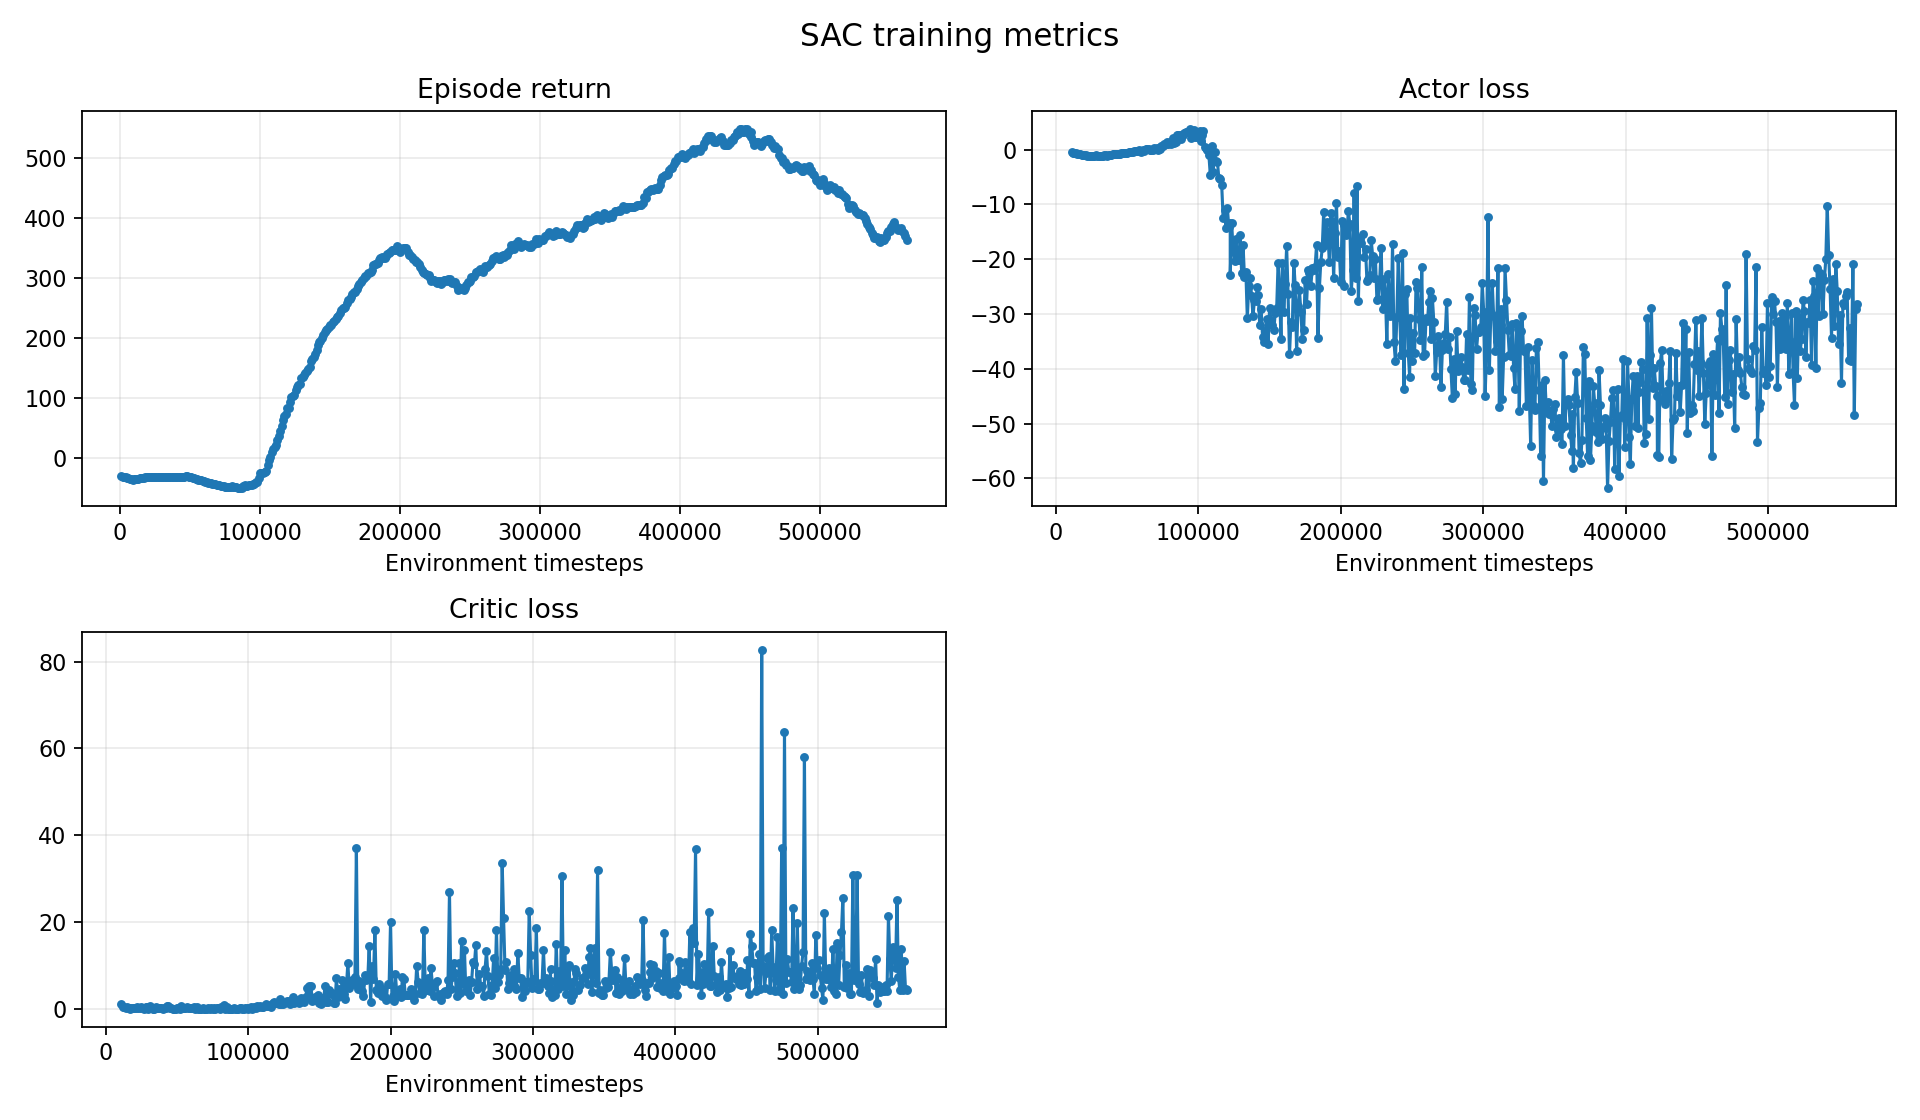
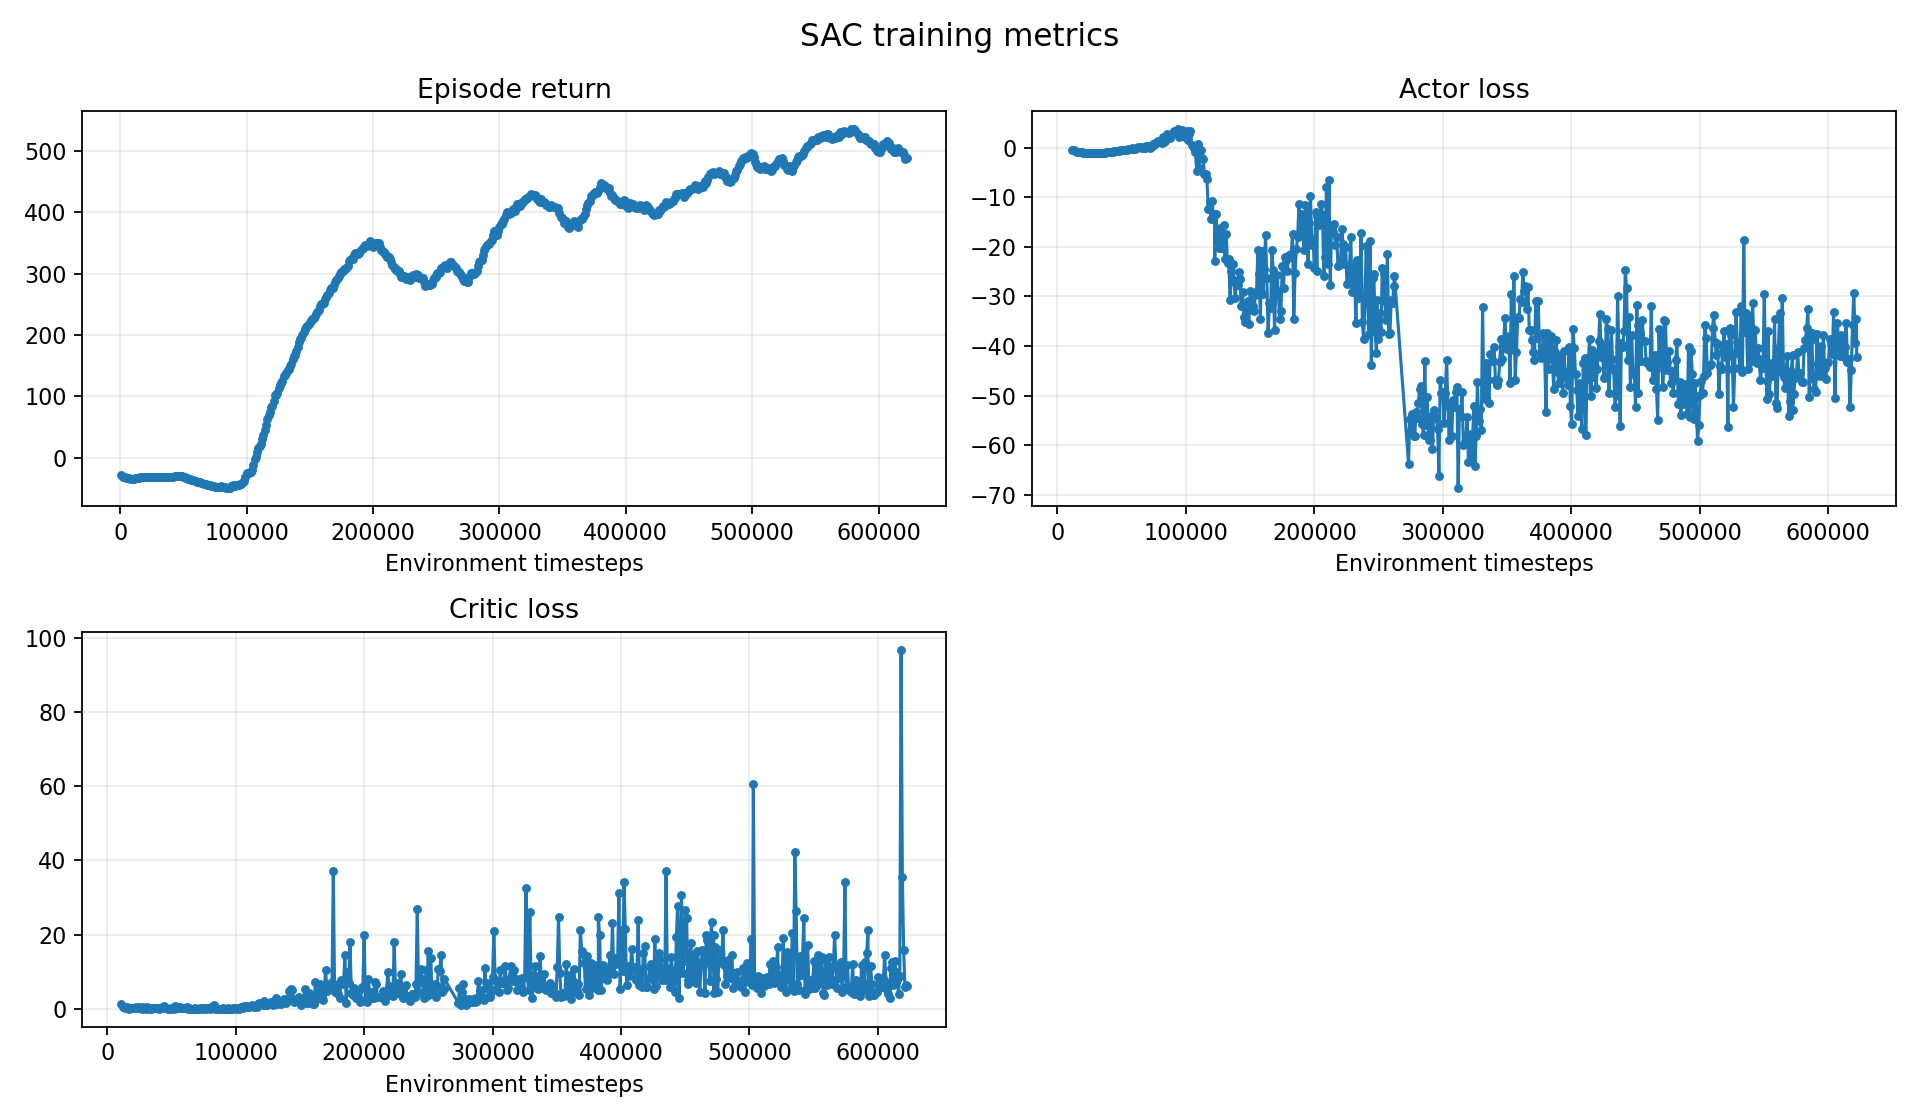
updated SAC with more runs

diff --git a/README.md b/README.md
@@ -7,6 +7,7 @@ baseline, and a DrQ-SAC variant with task-specific reward shaping.
 ## Results
 
 The strongest policies are shown below on the shared demo seed `48`.
+The bottom HUD shows Gymnasium diagnostics: blue bars are wheel ABS sensors, green is steering position, red is angular velocity, and white is vehicle speed.
 
 <table>
   <tr>
@@ -21,7 +22,7 @@ The strongest policies are shown below on the shared demo seed `48`.
     </td>
     <td>
       <img src="docs/assets/sac-demo.gif" alt="SAC policy" width="280">
-      <br><strong>516.5 ± 262.5 holdout return</strong>
+      <br><strong>518.0 ± 165.2 holdout return</strong>
     </td>
     <td>
       <img src="docs/assets/drq-sac-demo.gif" alt="DrQ-SAC policy" width="280">
@@ -31,17 +32,17 @@ The strongest policies are shown below on the shared demo seed `48`.
 </table>
 
 The table reports deterministic evaluation on 50 fresh seeds (`100–149`),
-separate from the five seeds used for checkpoint selection. 
+separate from the ten seeds used for checkpoint selection.
 
 | Model | Training steps | Training time | Holdout return | Lap completion |
 | --- | ---: | ---: | ---: | ---: |
 | PPO original | 1.20 M | 1h 52min | 847.8 ± 40.0 | 4/50 (8.0%) |
 | PPO stabilized continuation | 1.32 M | ~2h 26min | 855.7 ± 81.3 | 9/50 (18.0%) |
-| SAC | 262 k | 3h 50min | 516.5 ± 262.5 | 2/50 (4.0%) |
+| SAC | 382 k | ~5h 30min | 518.0 ± 165.2 | 0/50 (0.0%) |
 | DrQ-SAC | 420 k | 4h 47min | 806.1 ± 94.8 | 1/50 (2.0%) |
 
-The PPO, SAC, and DrQ-SAC checkpoints were selected using the original
-five-seed validation set; the holdout seeds were not used for selection.
+The PPO, SAC, and DrQ-SAC checkpoints were selected using separate validation
+sets; the 50-seed holdout was not used for selection.
 
 ## Approach
 
@@ -78,9 +79,9 @@ clipping, KL target, and reduced action standard deviation.
 
 ![PPO training metrics](docs/assets/ppo-training-metrics-combined.png)
 
-SAC has a very slow training curve with no significant progress in the first ~100k steps 
-but then improved steadily and reached its peak at ~450k steps. After that the agent 
-degraded. 
+The SAC plot combines the original training through 262k steps with the
+continuation through 552k steps. The retained 382.4k checkpoint is reported
+above.
 
 <img src="docs/assets/sac-training-metrics.png" alt="SAC training metrics" width="800">
 
@@ -108,7 +109,7 @@ with significant dispersion and struggled to improve significantly after that.
 
 - Environment: `CarRacing-v3`, continuous native three-action control.
 - Training seed: `42`.
-- Validation seeds: `43, 44, 45, 46, 47`.
+- Validation seeds: `43, 44, 45, 46, 47, 49, 50, 51, 52, 53`.
 - Demonstration seed: `48`.
 - Device: CPU.
 - Generated models, replay buffers, TensorBoard logs, plots, and GIFs are stored
